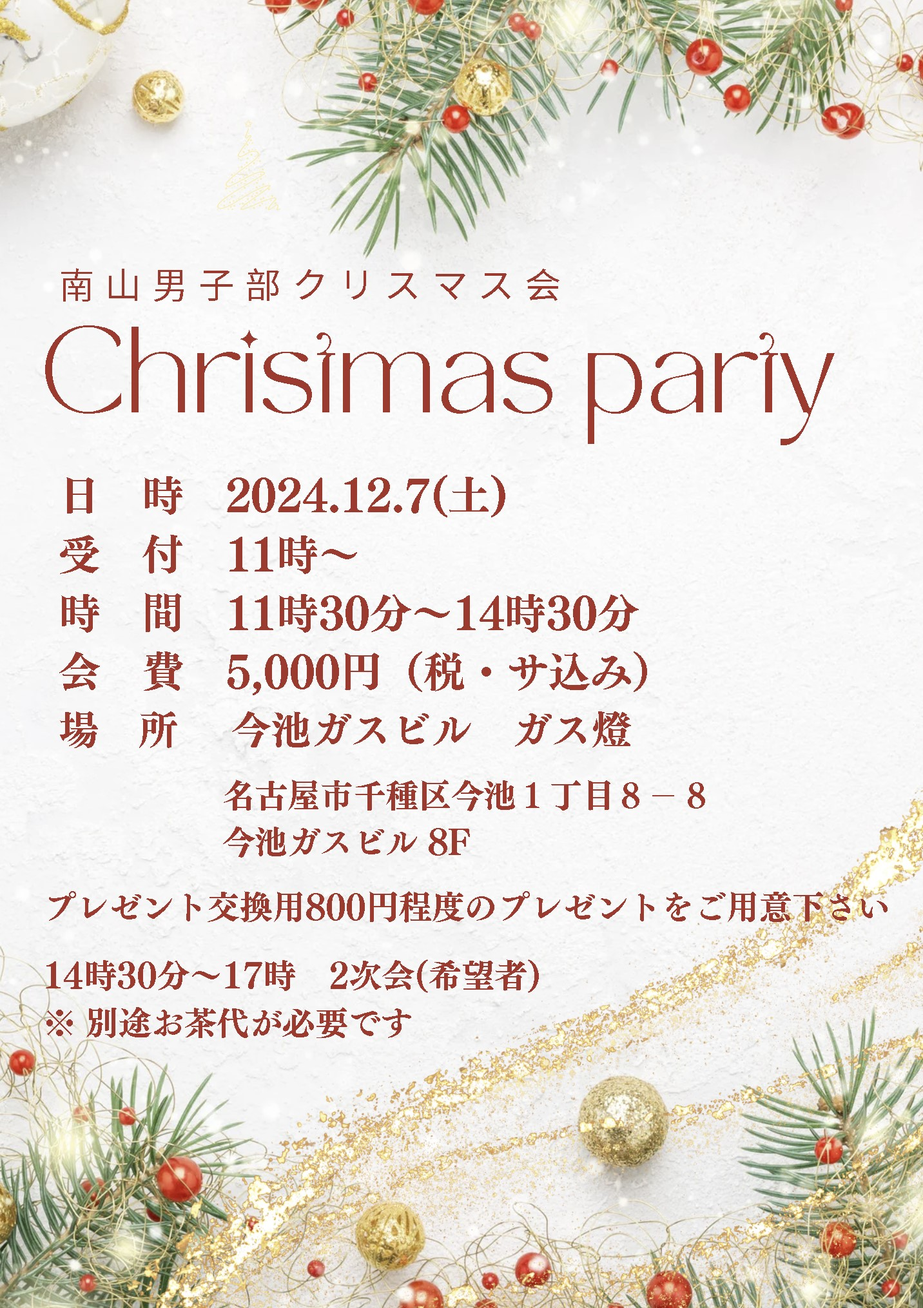
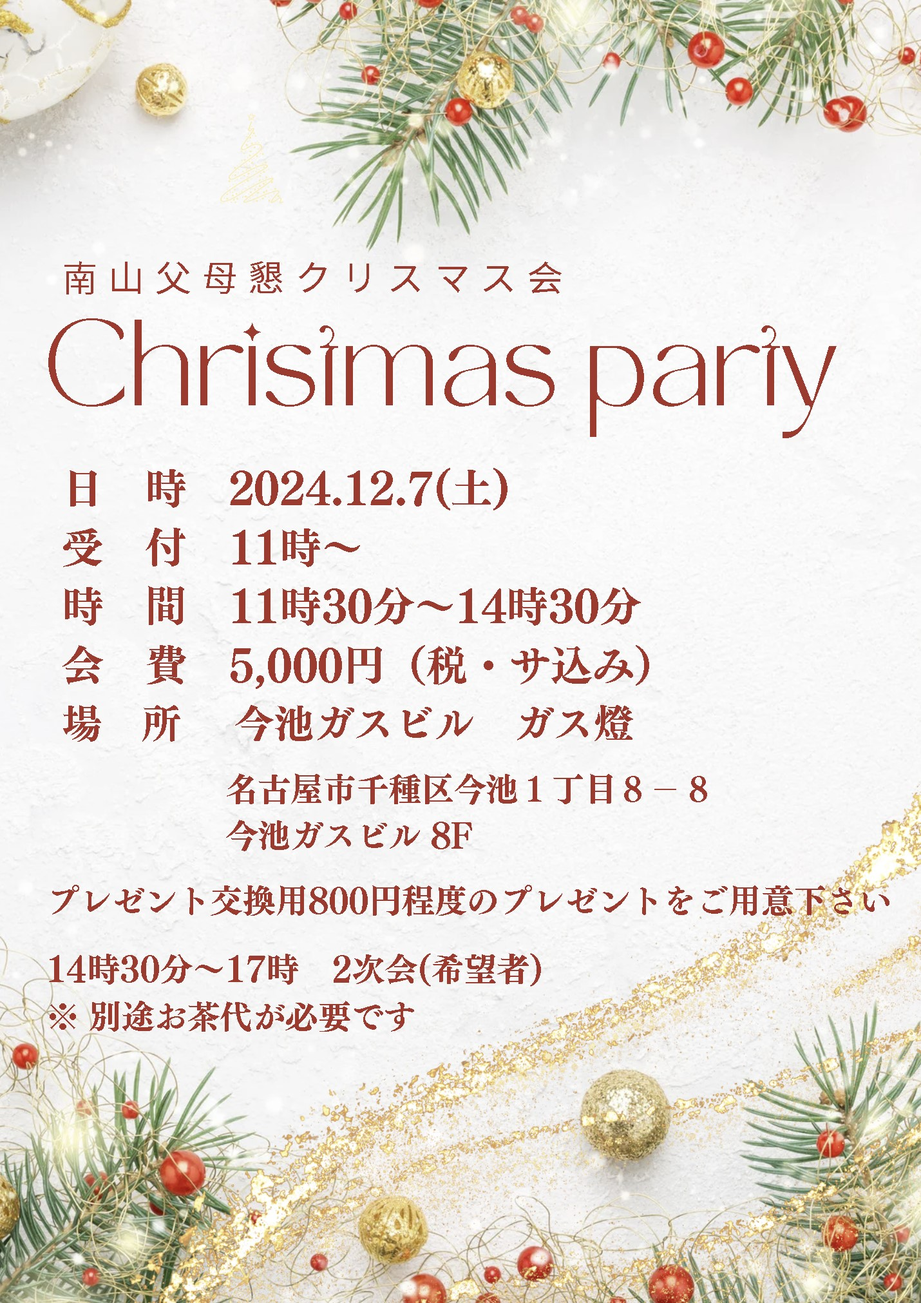
Add files via upload

diff --git a/index.html b/index.html
@@ -3,7 +3,7 @@
 <head>
     <meta charset="UTF-8">
     <meta name="viewport" content="width=device-width, initial-scale=1.0">
-    <title>南山男子クリスマス会のお知らせ</title>
+    <title>南山父母懇クリスマス会のお知らせ</title>
     <link rel="stylesheet" href="style_index.css">
     
     <!-- GoogleFont指定 ここに入れる-->
@@ -14,7 +14,7 @@
 <body>
     <div class="mytitle">
     <h3>
-    南山男子部　クリスマス会2024</br>
+    南山父母懇クリスマス会2024</br>
     開催日：２０２４年１２月７日(土)</br></br>
 
     時  間：１１時　受付開始予定</br>
